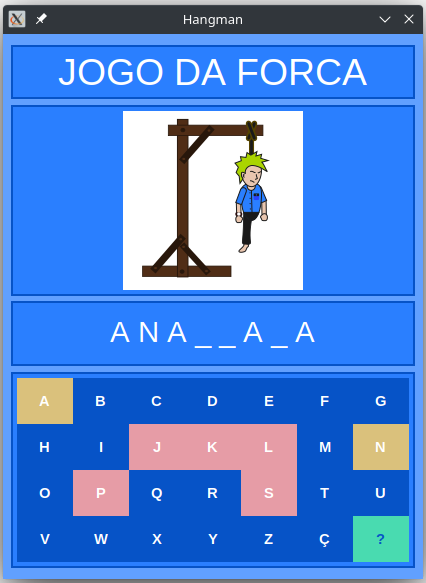
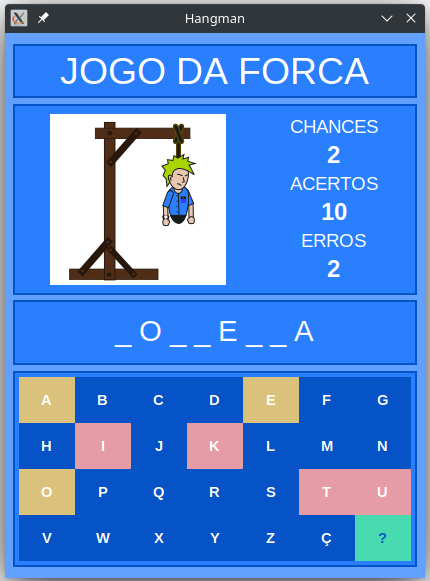
Adição de contagem de acertos, erros, e chances restantes.

diff --git a/src/hangmam_gui.py b/src/hangmam_gui.py
@@ -6,6 +6,7 @@ from random import choice
 
 # Lista de palavras
 from src.data import words as PALAVRAS
+palavras_jogadas: list = []
 
 if str(platform.system()) == 'Windows':
     PATH: str = 'src\\img\\'
@@ -28,7 +29,12 @@ cores = {
 def nova_palavra() -> list:
     """ Essa função seleciona uma palavra da lista
     de palavras juntamente com sua menságem de ajuda. """
-    return choice(PALAVRAS)
+    palavra = choice(PALAVRAS)
+
+    while palavra[0] in palavras_jogadas:
+        palavra = choice(PALAVRAS)
+
+    return palavra
 
 
 class Application:
@@ -36,6 +42,9 @@ class Application:
         self.app = app
 
         self.chances = 0
+        self.num_chances = IntVar()
+        self.num_acertos = IntVar()
+        self.num_erros = IntVar()
         self.letras_clicadas: list = []
 
         self.palavra: list = nova_palavra()
@@ -69,6 +78,13 @@ class Application:
                              highlightbackground=cores["azul_escuro"], highlightthickness=2)
         self.frame_2.place(relx=0.02, rely=0.13, relwidth=0.96, relheight=0.35)
 
+        self.frame_2_1 = Frame(
+            self.frame_2, bd=4, bg=cores["azul"], highlightthickness=0)
+        self.frame_2_2 = Frame(
+            self.frame_2, bd=4, bg=cores["azul"], highlightthickness=0)
+        self.frame_2_1.pack(side=LEFT, expand=True)
+        self.frame_2_2.pack(side=RIGHT, expand=True)
+
         self.frame_3 = Frame(self.app, bd=4, bg=cores["azul"],
                              highlightbackground=cores["azul_escuro"], highlightthickness=2)
         self.frame_3.place(relx=0.02, rely=0.49, relwidth=0.96, relheight=0.12)
@@ -83,10 +99,29 @@ class Application:
               font=("Arial", 28)).pack()
 
         self.hang = [PhotoImage(
-            file=f'{PATH}hang{x}.png', width=180, height=180) for x in range(7)]
+            file=f'{PATH}hang{x}.png', width=176, height=176) for x in range(7)]
         self.figura = Label(
-            self.frame_2, image=self.hang[0], bg=cores["azul"])
-        self.figura.pack()
+            self.frame_2_1, image=self.hang[0], bg=cores["azul"])
+        self.figura.pack(expand=True)
+
+        Label(self.frame_2_2, text="CHANCES", bg=cores["azul"], fg=cores["branco"],
+              font=("Arial", 14)).pack(expand=True)
+        self.lb_chances = Label(self.frame_2_2, textvariable=self.num_chances, bg=cores["azul"], fg=cores["branco"],
+                                font=("Arial", 18, "bold")).pack(expand=True)
+
+        Label(self.frame_2_2, text="ACERTOS", bg=cores["azul"], fg=cores["branco"],
+              font=("Arial", 14)).pack(expand=True)
+        self.lb_acertos = Label(self.frame_2_2, textvariable=self.num_acertos, bg=cores["azul"], fg=cores["branco"],
+                                font=("Arial", 18, "bold")).pack(expand=True)
+
+        Label(self.frame_2_2, text="ERROS", bg=cores["azul"], fg=cores["branco"],
+              font=("Arial", 14)).pack(expand=True)
+        self.lb_erros = Label(self.frame_2_2, textvariable=self.num_erros, bg=cores["azul"], fg=cores["branco"],
+                              font=("Arial", 18, "bold")).pack(expand=True)
+
+        self.num_chances.set((self.chances - 6) * -1)
+        self.num_acertos.set(0)
+        self.num_erros.set(0)
 
         self.label_palavra = Label(
             self.frame_3, text=self.letras_adivinhadas, bg=cores["azul"], fg=cores["branco"],
@@ -142,6 +177,7 @@ class Application:
         else:
             self.botao[letra]["bg"] = cores["vermelho"]
             self.chances += 1
+            self.num_chances.set((self.chances - 6) * -1)
             self.figura["image"] = self.hang[self.chances]
 
         self.acertou_a_palavra()
@@ -155,11 +191,14 @@ class Application:
         if "_" not in self.letras_adivinhadas:
             mensagem = f"Parabéns, você acertou!\nA palavra era: {self.palavra[0].upper()}"
             messagebox.showinfo(message=mensagem, title="Hangman")
+            self.num_acertos.set(int(self.num_acertos.get()) + 1)
+            palavras_jogadas.append(self.palavra[0])
             self.reiniciar()
 
         if self.chances == 6:
             mensagem = f"Poxa, você perdeu!\nA palavra era: {self.palavra[0].upper()}"
             messagebox.showwarning(message=mensagem, title="Hangman")
+            self.num_erros.set(int(self.num_erros.get()) + 1)
             self.reiniciar()
 
     def reiniciar(self) -> None:
@@ -171,6 +210,7 @@ class Application:
                 self.botao[letra]["bg"] = cores["azul_escuro"]
 
         self.chances = 0
+        self.num_chances.set((self.chances - 6) * -1)
         self.letras_clicadas.clear()
         self.figura["image"] = self.hang[self.chances]
         self.palavra: list = nova_palavra()
